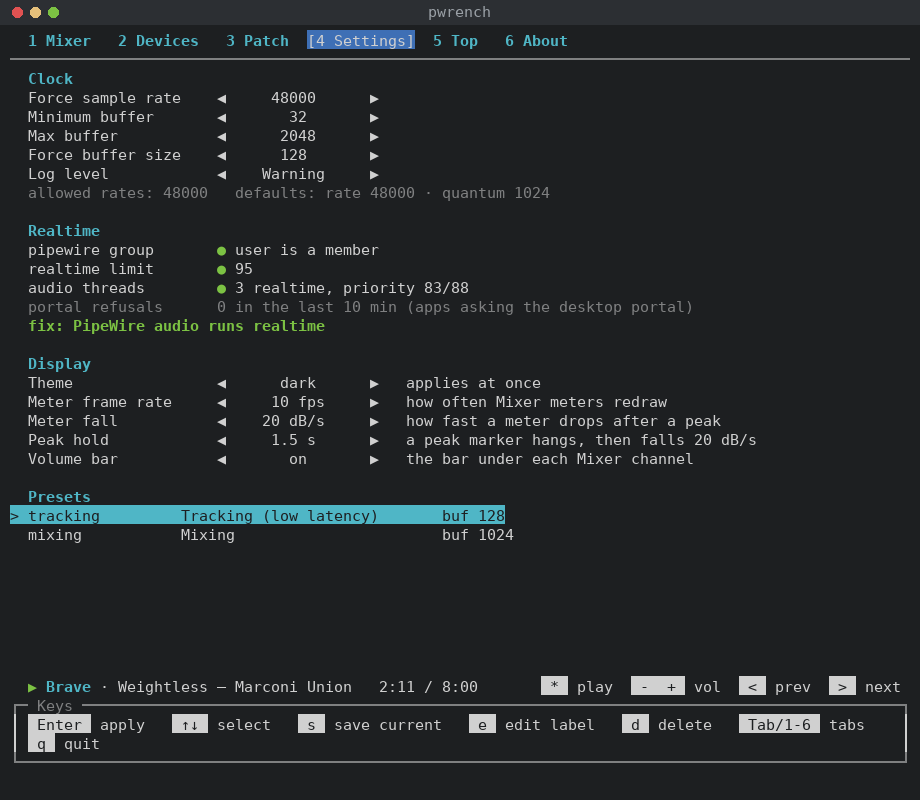
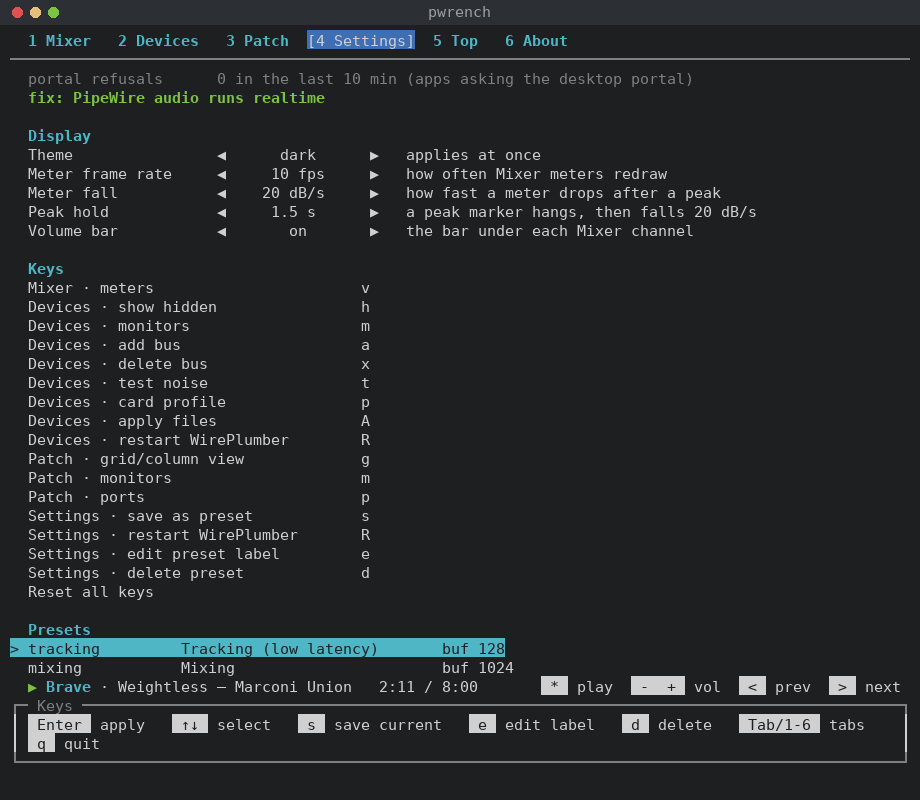
Docs: Settings → Keys in the guide and README, new screenshot, HANDOFF

diff --git a/tools/screenshots.py b/tools/screenshots.py
@@ -274,13 +274,16 @@ def shots():
     st = patch_at(g, pc.UIState(tab="patch", patch_ports=True, patch_side="dst"), source="GCS-8 CH 2", dest="REAPER")
     yield "patch-ports", frame(st, patch=g, media=MEDIA)
 
-    # Settings doesn't scroll yet, so these are taken on a taller terminal (40 rows).
+    # Settings scrolls to the cursor; these are taken on a taller terminal (40 rows) to show more of it.
     yield "settings", frame(pc.UIState(tab="settings", cursor=1, pending={"clock.min-quantum": 64}), height=40,
                             media=MEDIA, realtime=realtime_status(False))
     yield "settings-realtime-ok", frame(pc.UIState(tab="settings", cursor=pc.BAR_ROW), height=40, media=MEDIA,
                                         realtime=realtime_status(True))
     yield "settings-presets", frame(pc.UIState(tab="settings", cursor=pc.PRESETS_ROW), height=40, media=MEDIA,
                                     realtime=realtime_status(True))
+    yield "settings-keys", frame(pc.UIState(tab="settings", cursor=pc.KEYS_ROW + 1,
+                                            keys={"devices.show_hidden": "z", "mixer.meters": None}),
+                                 height=40, media=MEDIA, realtime=realtime_status(True))
     yield "top", frame(pc.UIState(tab="top"), block=block, media=MEDIA)
     yield "about", frame(pc.UIState(tab="about"), media=MEDIA,
                          about={"pipewire": "1.0.5", "wireplumber": "0.4.17", "config": "~/.config/pwctl"})

diff --git a/tests/test_tui_smoke.py b/tests/test_tui_smoke.py
@@ -240,3 +240,25 @@ def test_numpad_keys_reach_the_media_bar(app):
     app.expect("no media player found")  # fixtures have no player, so the key got through
     app.send("q")
     assert app.wait_exit() == 0
+
+
+def test_rebind_a_key_in_settings(app, tmp_path):
+    app.expect("Playback")
+    app.send(tab("settings"))
+    app.expect("Force sample rate")
+    app.send("\x1bOB" * (pc.KEYS_ROW + 1))  # Devices · show hidden, the second Keys row
+    app.expect("Devices · show hidden")
+    app.send("\r")
+    app.expect("press a key")
+    app.send("q")                            # global: refused, and pwrench keeps running
+    app.expect("global: quit")
+    app.send("\r")
+    app.expect("press a key")
+    app.send("z")
+    app.expect("show hidden: z")
+    app.send("\x1bOA\x7f")                   # Mixer · meters, Backspace unbinds
+    app.expect("meters: no key")
+    app.send("q")
+    assert app.wait_exit() == 0
+    keys = json.loads((tmp_path / "pwctl" / "ui.json").read_text())["keys"]
+    assert keys == {"devices.show_hidden": "z", "mixer.meters": None}

diff --git a/pwctl.py b/pwctl.py
@@ -987,9 +987,10 @@ class Tui:
                 self._apply_theme(scr)  # may replace the message: a theme the terminal can't show
             elif kind == "save_ui":
                 pc.save_ui(pc.ui_path(), pc.ui_prefs(self.st))
-                hold = f"{self.st.peak_hold:g} s" if self.st.peak_hold else "off"
-                self.st.message = (f"meters: {self.st.meter_fps} fps, fall {self.st.meter_fall} dB/s, peak hold {hold}"
-                                   f" · volume bar {'on' if self.st.volume_bar else 'off'}")
+                if self.st.cursor < pc.KEYS_ROW:  # a Keys row keeps its own message
+                    hold = f"{self.st.peak_hold:g} s" if self.st.peak_hold else "off"
+                    self.st.message = (f"meters: {self.st.meter_fps} fps, fall {self.st.meter_fall} dB/s, "
+                                       f"peak hold {hold} · volume bar {'on' if self.st.volume_bar else 'off'}")
             elif kind.startswith("dev_"):
                 self._do_devices(scr, action)
             elif kind in ("media", "media_volume"):

diff --git a/README.md b/README.md
@@ -235,6 +235,14 @@ Settings refresh (`pwrealtime.py`, which reads `/proc` and `/etc/security/limits
 
 Background: the 2026-10-24 Discord stutter, in the vault's `docs/pipewire-realtime.md`.
 
+#### Keys
+
+One row per letter shortcut (`pwkeys.ACTIONS`). Enter then a key rebinds it; Backspace/Delete unbinds; Reset
+all keys asks y/n. Global keys (`q`, `1`–`6`, media keys, `y`/`n`) and keys taken on the same screen are
+refused; clashes from a hand-edited `ui.json` show red, and the first shortcut keeps the key. `handle_key`
+maps the pressed key onto the action's default (`pwkeys.translate`), so the tab handlers only know defaults.
+Settings scrolls to keep the cursor in view.
+
 #### Presets (the bottom of Settings)
 
 Named, labelled snapshots of the Settings rows (force rate, force buffer, min, max, and optionally
@@ -312,7 +320,7 @@ Exit codes: 0 ok; 1 a PipeWire command failed, a check found problems or you ans
 | Path | Written by | What |
 |---|---|---|
 | `~/.config/pwctl/presets.json` | Presets view, `preset save/delete` | presets |
-| `~/.config/pwctl/ui.json` | Settings → Theme | display preferences (theme) |
+| `~/.config/pwctl/ui.json` | Settings → Display, Keys | display preferences and key binding overrides (`keys`; `null` = unbound) |
 | `~/.config/pwctl/devices.json` | Devices view, `devices label/hide/bus` | buses, labels, hidden rows, clock: the source of truth |
 | `~/.config/pipewire/pipewire.conf.d/50-pwctl-devices.conf` | `devices apply` | the buses and clock, as a PipeWire drop-in |
 | `~/.config/wireplumber/main.lua.d/51-pwctl-labels.lua` | `devices apply` | labels as WirePlumber 0.4 rules |

diff --git a/docs/guide.md b/docs/guide.md
@@ -217,6 +217,21 @@ green:
 Theme (dark, light, or crowbar orange), the meters' frame rate, fall speed and peak hold, and the
 Mixer's volume bar. These apply at once and are kept in `~/.config/pwctl/ui.json`.
 
+### Keys
+
+Every letter shortcut, one row each, with the key it's on. Enter on a row, then press the new key.
+Backspace (or Delete) takes the key off, so the shortcut does nothing; Esc cancels. **Reset all keys**
+puts every shortcut back after a y/n. Changes apply at once and are kept in `~/.config/pwctl/ui.json`.
+
+- A key that's taken on the same screen, or one that works everywhere (`q`, `1`–`6`, the media keys
+  `* - + < >`, `y` and `n`), is refused and the reason shows on the status line.
+- A clash that's already in the file, from hand editing, shows red with the reason. The first shortcut
+  on that screen keeps the key.
+- Arrows, Enter, Esc, Space and Tab can't be rebound.
+- The key legend at the bottom of each tab shows your keys.
+
+![Settings → Keys](guide/settings-keys.png)
+
 ### Presets
 
 Saved clock settings with a label, such as tracking and mixing. `s` saves the current settings as a
